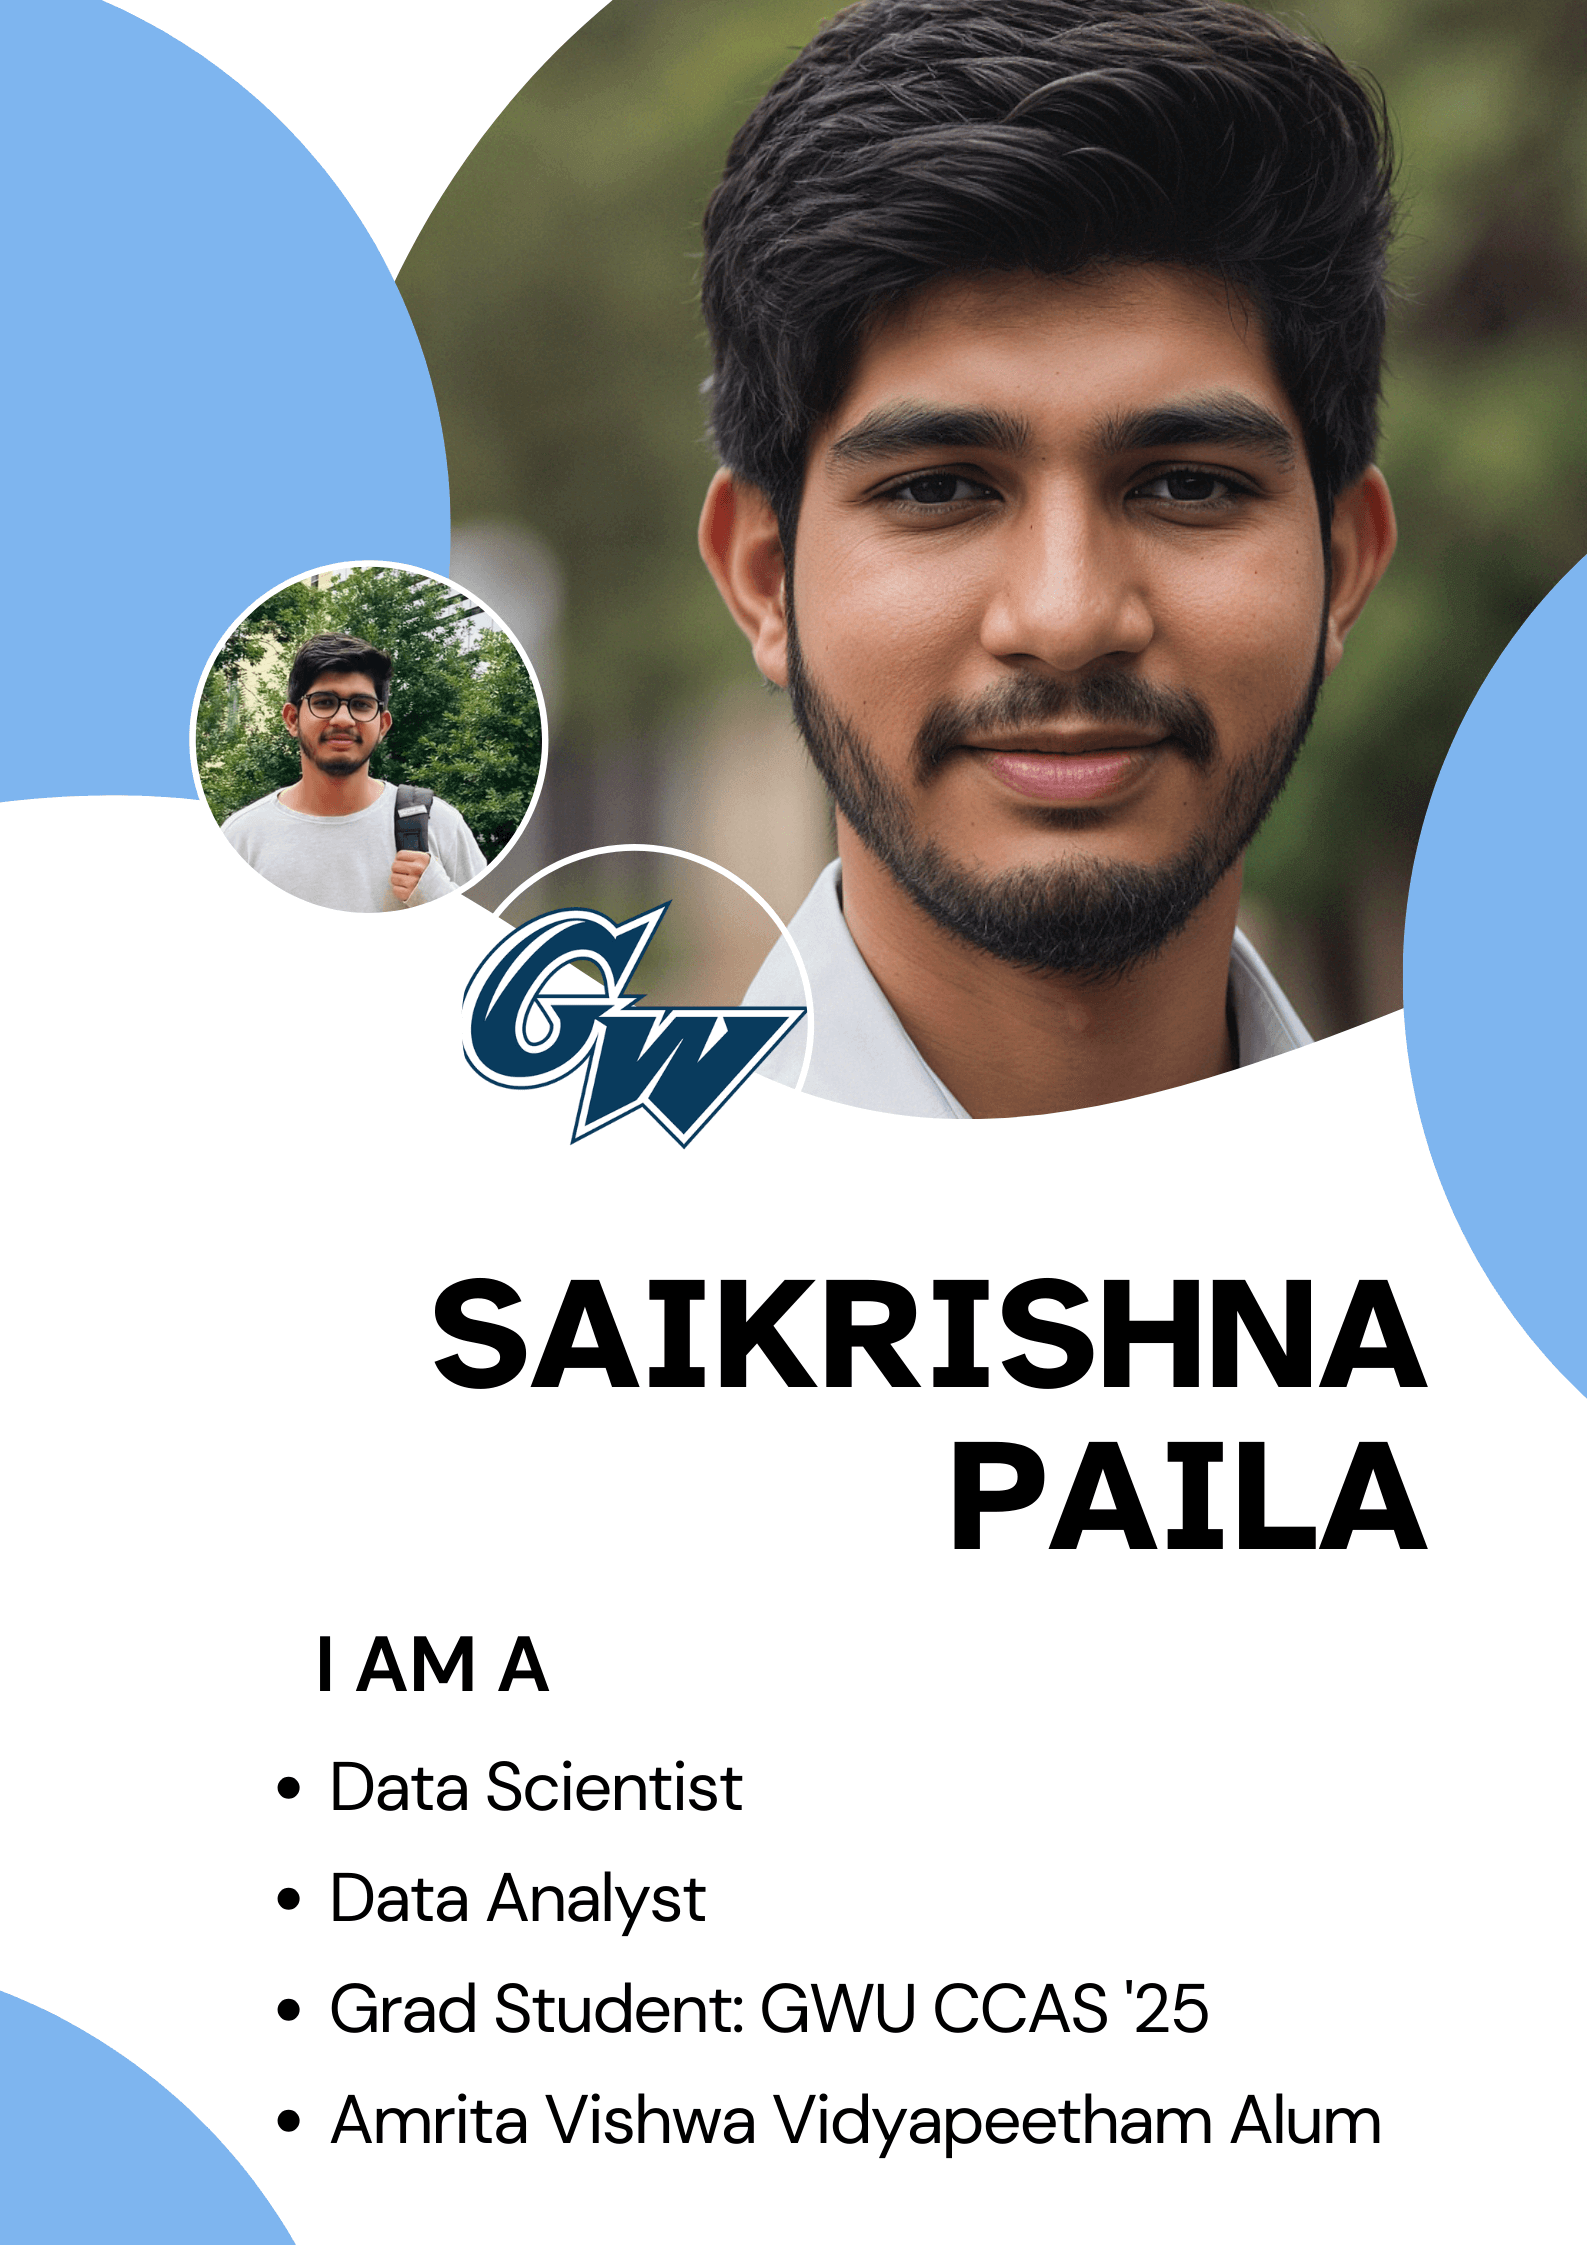
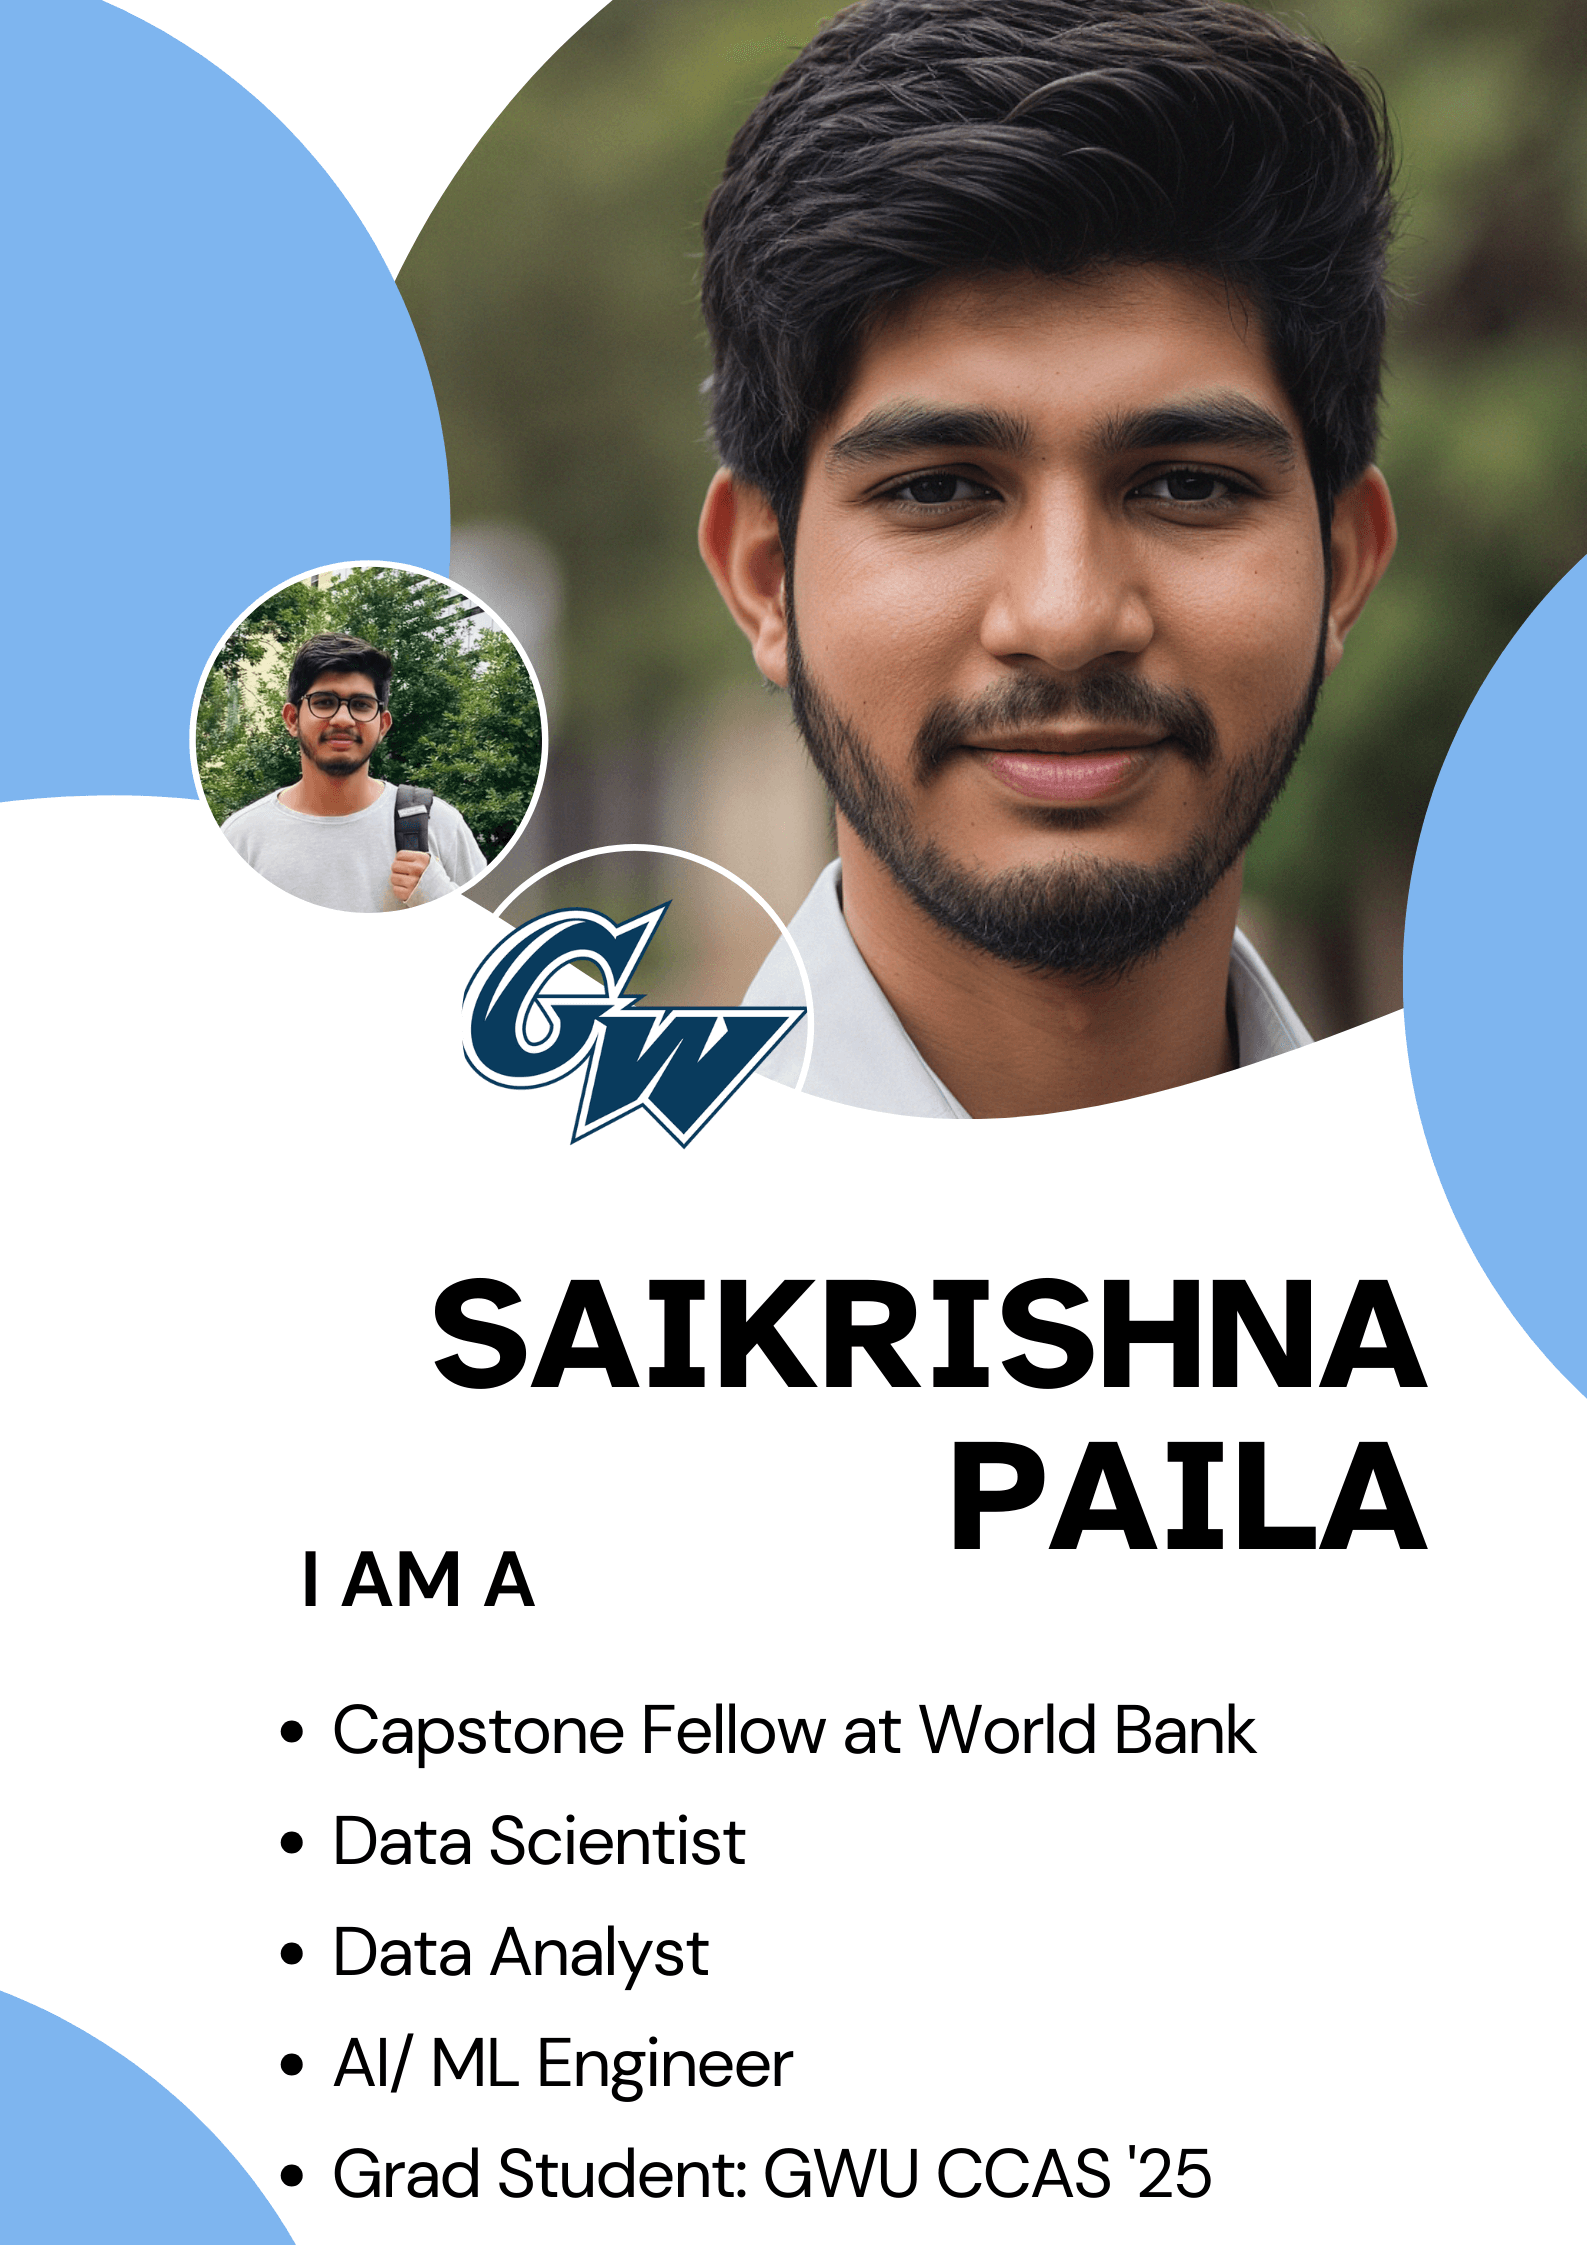
updating projects and resume

Changed region(s): [[0.1544, 0.686, 0.8645, 0.9978]]

diff --git a/index.html b/index.html
@@ -356,12 +356,31 @@
                   <!-- Logo and Title in one line -->
                   <div class="timeline-title-container" style="display: flex; align-items: center;">
                     <img src="WB.png" alt="World Bank logo" class="services-icon" width="140" height="60" style="margin-right: 15px; object-fit: contain;">
-                    <h6 class="timeline-title" style="color: black; margin: 0;">Data Science Intern, The World Bank, Washington, D.C., USA</h6>
+                    <h6 class="timeline-title" style="color: black; margin: 0;"> AI Engineer (Capstone Fellow), The World Bank, Washington, D.C., USA</h6>
                   </div>
                   <!-- Description below logo and title -->
                   <div class="timeline-content" style="color: black; padding-top: 10px;">
                     <p style="margin: 0;">
-                      Developing a chatbot utilizing open-source foundation models (FM) and Retrieval-Augmented Generation (RAG) techniques to streamline access to global development data and insights.  Implementing advanced natural language processing (NLP) pipelines to improve conversational accuracy and response relevance for stakeholders and  Collaborating with cross-functional teams to design scalable solutions for data integration and knowledge retrieval.
+                      I built an AI-powered legal chatbot using Retrieval-Augmented Generation (RAG) by integrating LangChain, Streamlit, Pinecone, and LLaMA via the Groq API, enabling users to ask legal questions and receive accurate, document-grounded responses. As part of this, I collected and processed 478 legal documents from Ghana and Sierra Leone using web scraping and Google Vision OCR (90% accuracy), chunked the content, generated embeddings, and indexed them in Pinecone for semantic search. The full-stack LLM application was architected and deployed on Google Cloud Platform (GCP) using Docker, FastAPI, and CI/CD pipelines, ensuring scalable access and automated backend updates for internal stakeholders.
+                    </p>
+                  </div>
+                </div>
+              </div>
+              <div style="margin-bottom: 25px;"></div>
+              <!-- Single Item: Graduate Instructional Assistant - Data Visualization -->
+              <div class="col-md-12">
+                <div class="timeline-box" style="border-left: none;">
+                  <!-- Date at the top -->
+                  <p class="timeline-year" style="color: #3c9ee5; font-weight: bold; margin-bottom: 10px;">March 2025 – Present</p>
+                  <!-- Logo and Title in one line -->
+                  <div class="timeline-title-container" style="display: flex; align-items: center;">
+                    <img src="gwu.png" alt="GWU logo" class="services-icon" width="140" height="60" style="margin-right: 15px; object-fit: contain;">
+                    <h6 class="timeline-title" style="color: black; margin: 0;">Student Technical Support Specialist Washington, D.C., USA</h6>
+                  </div>
+                  <!-- Description below logo and title -->
+                  <div class="timeline-content" style="color: black; padding-top: 10px;">
+                    <p style="margin: 0;">
+                      Guided students on software setup, debugging code, managing Git workflows, and resolving Python, R, and SQL issues across Jupyter and VS Code environments.
                     </p>
                   </div>
                 </div>
@@ -376,7 +395,7 @@
                   <!-- Logo and Title in one line -->
                   <div class="timeline-title-container" style="display: flex; align-items: center;">
                     <img src="gwu.png" alt="GWU logo" class="services-icon" width="140" height="60" style="margin-right: 15px; object-fit: contain;">
-                    <h6 class="timeline-title" style="color: black; margin: 0;">Graduate Instructional Assistant – Data Visualization, Columbian College of Arts and Sciences, The George Washington University, Washington, D.C., USA</h6>
+                    <h6 class="timeline-title" style="color: black; margin: 0;">Graduate Instructional Assistant – Data Visualization, The George Washington University, Washington, D.C., USA</h6>
                   </div>
                   <!-- Description below logo and title -->
                   <div class="timeline-content" style="color: black; padding-top: 10px;">
@@ -387,7 +406,7 @@
                       Assisted in designing assignments and grading projects that emphasized effective storytelling through visual analytics.
                     </p>
                     <p style="margin: 0;">
-                      Delivered hands-on sessions to enhance students’ skills in creating interactive dashboards and data-driven narratives.
+                      Delivered hands-on sessions to enhance students' skills in creating interactive dashboards and data-driven narratives.
                     </p>
                     <p style="margin: 0;">
                       Supported students in leveraging statistical methods and visualization principles to analyze and present data effectively.
@@ -404,7 +423,7 @@
                   <!-- Logo and Title in one line -->
                   <div class="timeline-title-container" style="display: flex; align-items: center;">
                     <img src="gwu.png" alt="GWU logo" class="services-icon" width="140" height="60" style="margin-right: 15px; object-fit: contain;">
-                    <h6 class="timeline-title" style="color: black; margin: 0;">Graduate Instructional Assistant – Data Science Capstone, Columbian College of Arts and Sciences, The George Washington University, Washington, D.C., USA</h6>
+                    <h6 class="timeline-title" style="color: black; margin: 0;">Graduate Instructional Assistant – Data Science Capstone, The George Washington University, Washington, D.C., USA</h6>
                   </div>
                   <!-- Description below logo and title -->
                   <div class="timeline-content" style="color: black; padding-top: 10px;">
@@ -412,7 +431,7 @@
                       Guided undergraduate students in the Data Science Capstone course, assisting with data extraction, preprocessing, and analysis to develop comprehensive final-year projects.
                     </p>
                     <p style="margin: 0;">
-                      Led discussions on project strategy, model evaluation, and data visualization, enhancing students’ abilities to communicate findings effectively and adhere to data science best practices.
+                      Led discussions on project strategy, model evaluation, and data visualization, enhancing students' abilities to communicate findings effectively and adhere to data science best practices.
                     </p>
                   </div>
                 </div>
@@ -785,6 +804,24 @@
             </ul>
           </div>
           <div class="portfolio-items border-line-v row">
+            <!-- Multi-Agent Financial Analytics Engine -->
+            <div class="col-md-6 col-lg-4 portfolio-item llm python">
+              <div class="cardP">
+                <img class="cardP__image" src="multi.png" alt="Multi-Agent Financial Analytics Engine">
+                <div class="cardP__content">
+                  <p class="cardP__title">Multi-Agent Financial Analytics Engine</p>
+                  <p class="cardP__description">
+                    <strong>Abstract:</strong> Built a multi-agent AI bot for real-time financial insights using OpenAI, Groq, and Yahoo Finance APIs.<br>
+                    <strong>Tools & Technologies Used:</strong> Python, FastAPI, OpenAI API, Groq API, Yahoo Finance API.<br>
+                    <strong>Conclusion:</strong> Delivered a web-based solution that automates financial analysis and insight generation.
+                  </p>                                    
+                  <a href="https://github.com/Saikrishna-Paila/Multi-Agent-Financial-Analytics-Engine" target="_blank">
+                    <button class="cardP__button">Source Code</button>
+                  </a>
+                </div>
+              </div>
+            </div>
+
             <!-- AI Meets Law: Transforming Legal Research with RAG and Fine-Tuned LLM -->
             <div class="col-md-6 col-lg-4 portfolio-item llm python">
               <div class="cardP">
@@ -939,6 +976,25 @@
             <h3 class="subtitle">Achievement Hub</h3>
             <div class="boxes">
                 <div class="row vertical-line">
+                    <!-- Achievement 00: Graduate Instructional Assistant -->
+                    <div class="col-md-6">
+                      <div class="achievement-box">
+                        <div class="achievement-image" style="height: 400px; overflow: hidden;">
+                          <img src="Hub/TA.png" alt="Graduate Instructional Assistant" style="width: 100%; height: auto;">
+                          <div class="achievement-icon">
+                            <i class="bi bi-mortarboard"></i>
+                          </div>
+                        </div>
+                        <div class="achievement-content" style="font-size: 0.9em; color: black;">
+                          <h6 class="achievement-header">Graduate Instructional Assistant – Data Science Capstone</h6>
+                          <p>
+                            Guided undergraduates through their end-to-end capstone projects—from idea generation to final presentations.
+                            Grateful to Professor Sushovan Majhi for his mentorship and trust throughout the semester.
+                          </p>
+                        </div>
+                      </div>
+                    </div>
+
                     <!-- Achievement 01: Fine-Tune Your LLM -->
                     <div class="col-md-6">
                         <div class="achievement-box">
